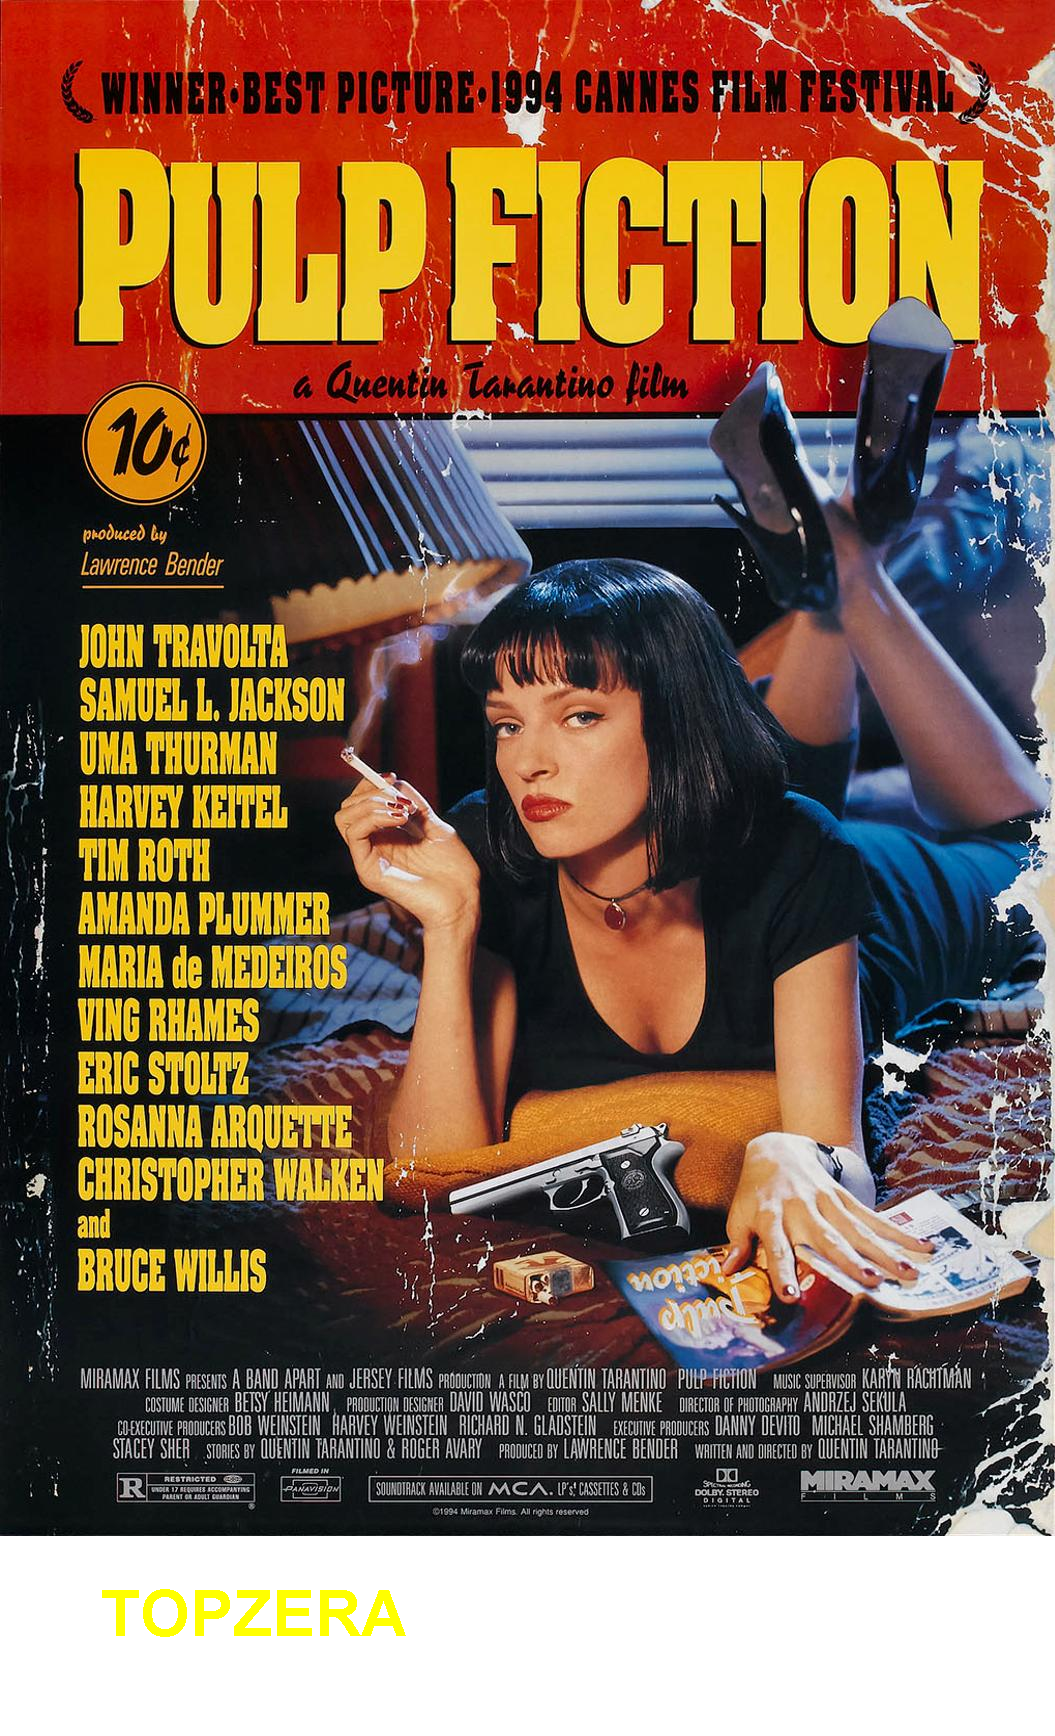
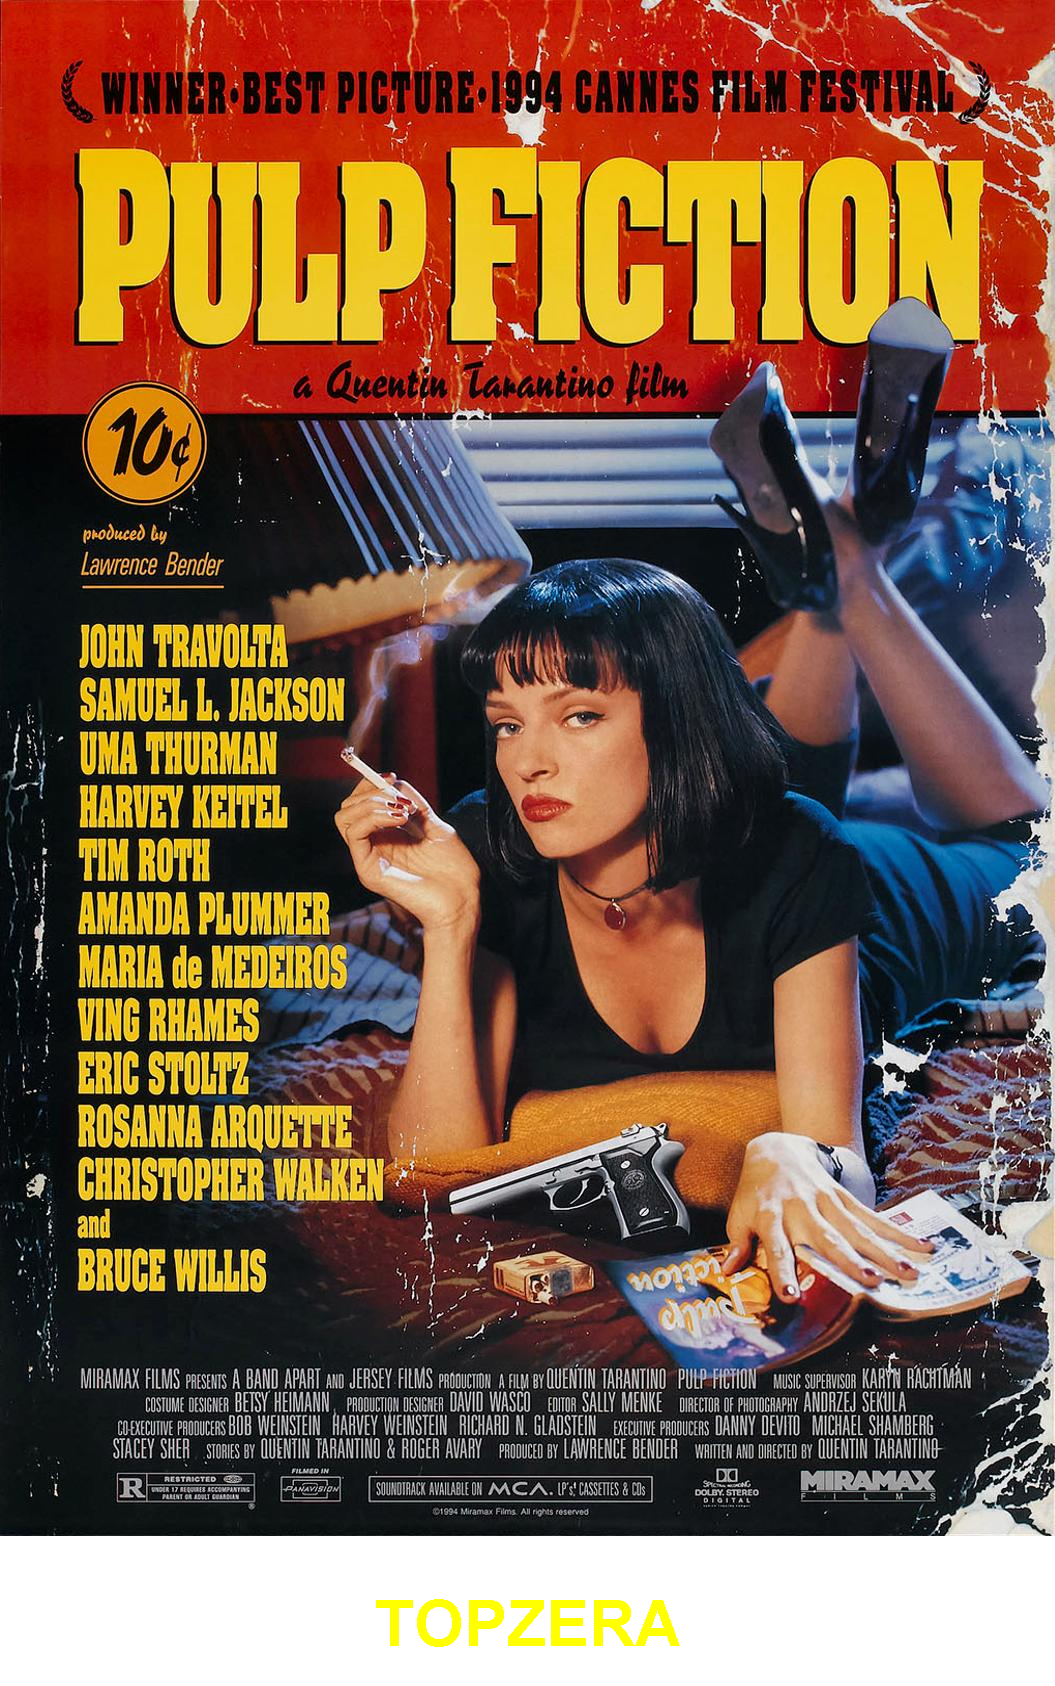
aula 3 refatoramento

diff --git a/src/Main.java b/src/Main.java
@@ -1,30 +1,43 @@
-import java.io.IOException;
 import java.io.InputStream;
-import java.net.URI;
 import java.net.URL;
-import java.net.http.HttpClient;
-import java.net.http.HttpRequest;
-import java.net.http.HttpResponse;
 import java.util.List;
-import java.util.Map;
 
 public class Main {
-    public static void main(String[] args) throws IOException, InterruptedException {
+    public static void main(String[] args) {
 
         //System.out.println("Hello world!");
 
-        // fazer uma conexão HTTP e buscar os top 250 filmes
-        //String url = "https://imdb-api.com/en/API/Top250Movies/k_0ojt0yvm"; //alterar <k_0ojt0yvm> por sua key (imdb)
-        String url = "https://raw.githubusercontent.com/alura-cursos/imersao-java-2-api/main/TopMovies.json";
-        URI endereco = URI.create(url);
-        var client = HttpClient.newHttpClient();
-        var request = HttpRequest.newBuilder(endereco).GET().build();
-        HttpResponse<String> response = client.send(request, HttpResponse.BodyHandlers.ofString());
-        String body = response.body();
+        API api = API.ALURA_IMDB;
 
-        // extrair só os dados que interessam (titulo, poster, classificação)
-        var parser = new JsonParser();
-        List<Map<String, String>> listaDeFilmes = parser.parse(body);
+        String url = api.getUrl();
+        IExtratorDeConteudo extrator = api.getExtrator();
+
+        ClienteHttp http = new ClienteHttp();
+        String json = http.buscaDados(url);
+
+        // exibir e manipular os dados
+        List<Conteudo> conteudos = extrator.extraiConteudos(json);
+
+        // exibir e manipular os dados
+        GeradoraDeFigurinhas geradora = new GeradoraDeFigurinhas();
+
+        try {
+            for (int i = 0; i < 10; i++) {
+
+                Conteudo conteudo = conteudos.get(i);
+
+                InputStream inputStream = new URL(conteudo.urlImagem()).openStream();
+                String nomeArquivo = "saida/" +
+                        conteudo.titulo().replaceAll("[^a-zA-Z0-9]","") +
+                        ".png";
+
+                geradora.cria(inputStream, nomeArquivo);
+
+                System.out.println(conteudo.titulo());
+                System.out.println();
+            }
+        } catch (Exception ignored) {}
+
 
 //        // exibir e manipular os dados
 //        for (Map<String,String> filme : listaDeFilmes) {
@@ -34,31 +47,30 @@ public class Main {
 //            System.out.println();
 //        }
 
-        // exibir e manipular os dados
-        var geradora = new GeradoraDeFigurinhas();
-        for (Map<String,String> filme : listaDeFilmes) {
-
-            String urlImagem = filme.get("image");
-            String titulo = filme.get("title");
-            String rating = filme.get("imDbRating");
-            String image = filme.get("image");
-
-            InputStream inputStream = new URL(urlImagem).openStream();
-            String nomeArquivo = titulo
-                    .trim()
-                    .replace(" ", "")
-                    .replaceAll("[^a-zA-Z0-9]","")
-                    + ".png";
-
-            geradora.cria(inputStream, nomeArquivo);
-
-            System.out.println(titulo);
-            System.out.println(rating);
-            System.out.println(image);
-            System.out.println(nomeArquivo);
-            System.out.println();
-        }
-
+//        // exibir e manipular os dados
+//        GeradoraDeFigurinhas geradora = new GeradoraDeFigurinhas();
+//        for (Map<String,String> filme : listaDeFilmes) {
+//
+//            String urlImagem = filme.get("image");
+//            String titulo = filme.get("title");
+//            String rating = filme.get("imDbRating");
+//            String image = filme.get("image");
+//
+//            InputStream inputStream = new URL(urlImagem).openStream();
+//            String nomeArquivo = titulo
+//                    .trim()
+//                    .replace(" ", "")
+//                    .replaceAll("[^a-zA-Z0-9]","")
+//                    + ".png";
+//
+//            geradora.cria(inputStream, nomeArquivo);
+//
+//            System.out.println(titulo);
+//            System.out.println(rating);
+//            System.out.println(image);
+//            System.out.println(nomeArquivo);
+//            System.out.println();
+//        }
 
     }
 }

diff --git a/src/GeradoraDeFigurinhas.java b/src/GeradoraDeFigurinhas.java
@@ -1,6 +1,4 @@
-import java.awt.Color;
-import java.awt.Font;
-import java.awt.Graphics2D;
+import java.awt.*;
 import java.awt.image.BufferedImage;
 import java.io.File;
 import java.io.IOException;
@@ -23,7 +21,7 @@ public class GeradoraDeFigurinhas {
         // cria nova imagem em memória com transparência e com tamanho novo
         int largura = imagemOriginal.getWidth();
         int altura = imagemOriginal.getHeight();
-        int novaAltura = altura + 200;
+        int novaAltura = altura + 150;
         BufferedImage novaImagem = new BufferedImage(largura, novaAltura, BufferedImage.TRANSLUCENT);
 
         // copiar a imagem original pra novo imagem (em memória)
@@ -36,11 +34,23 @@ public class GeradoraDeFigurinhas {
         graphics.setFont(fonte);
 
         // escrever uma frase na nova imagem
-        graphics.drawString("TOPZERA", 100, novaAltura - 100);
+        //graphics.drawString("TOPZERA", 100, novaAltura - 100);
+        centralizarTexto("TOPZERA", largura, novaAltura, graphics);
 
         // escrever a nova imagem em um arquivo
-        ImageIO.write(novaImagem, "png", new File("saida/" + nomeArquivo));
+        ImageIO.write(novaImagem, "png", new File(nomeArquivo));
 
+    }
+
+    private void centralizarTexto(String s, int w, int h, Graphics2D g) {
+
+        FontMetrics fm = g.getFontMetrics();
+        int x = (w - fm.stringWidth(s)) / 2;
+        int y = (fm.getAscent() + (h - (fm.getAscent() + fm.getDescent())) / 2);
+
+        y = h - 40;
+
+        g.drawString(s, x, y);
     }
 
 }

diff --git a/src/API.java b/src/API.java
@@ -1,0 +1,27 @@
+public enum API {
+
+    IMDB_TOP_MOVIES("https://imdb-api.com/en/API/Top250Movies/k_x3pev8lm", //alterar <k_0ojt0yvm> por sua key (imdb)
+            new ExtratorDeConteudoDoIMDB()),
+    IMDB_TOP_SERIES("https://imdb-api.com/en/API/Top250TVs/k_x3pev8lm", //alterar <k_0ojt0yvm> por sua key (imdb)
+            new ExtratorDeConteudoDoIMDB()),
+    NASA("https://api.nasa.gov/planetary/apod?api_key=DEMO_KEY&start_date=2022-06-12&end_date=2022-06-14", //alterar <DEMO_KEY> por sua key (nasa)
+            new ExtratorDeConteudoDaNasa()),
+    ALURA_IMDB("https://raw.githubusercontent.com/alura-cursos/imersao-java-2-api/main/TopMovies.json",
+            new ExtratorDeConteudoDoIMDB());
+
+    private String url;
+    private IExtratorDeConteudo extrator;
+
+    API(String url, IExtratorDeConteudo extrator) {
+        this.url = url;
+        this.extrator = extrator;
+    }
+
+    public String getUrl() {
+        return url;
+    }
+
+    public IExtratorDeConteudo getExtrator() {
+        return extrator;
+    }
+}

diff --git a/src/ClienteHttp.java b/src/ClienteHttp.java
@@ -1,0 +1,25 @@
+import java.io.IOException;
+import java.net.URI;
+import java.net.http.HttpClient;
+import java.net.http.HttpRequest;
+import java.net.http.HttpResponse;
+
+public class ClienteHttp {
+
+    public String buscaDados(String url) {
+
+        try {
+
+            URI endereco = URI.create(url);
+            HttpClient client = HttpClient.newHttpClient();
+            HttpRequest request = HttpRequest.newBuilder(endereco).GET().build();
+            HttpResponse<String> response = client.send(request, HttpResponse.BodyHandlers.ofString());
+            String body = response.body();
+            return body;
+
+        } catch (IOException | InterruptedException ex) {
+            throw new ClienteHttpException("Erro ao consultar a URL. :(");
+        }
+
+    }
+}

diff --git a/src/ExtratorDeConteudoDoIMDB.java b/src/ExtratorDeConteudoDoIMDB.java
@@ -1,0 +1,18 @@
+import java.util.List;
+import java.util.Map;
+
+public class ExtratorDeConteudoDoIMDB implements IExtratorDeConteudo {
+
+    public List<Conteudo> extraiConteudos(String json) {
+        // extrair só os dados que interessam (titulo, poster, classificação)
+        var parser = new JsonParser();
+        List<Map<String, String>> listaDeAtributos = parser.parse(json);
+
+        return listaDeAtributos.stream()
+                .map(atributos -> new Conteudo(
+                        atributos.get("title"),
+                        atributos.get("image").replaceAll("(@+)(.*).jpg$", "$1.jpg")))
+                .toList();
+
+    }
+}

diff --git a/src/ExtratorDeConteudoDaNasa.java b/src/ExtratorDeConteudoDaNasa.java
@@ -1,0 +1,19 @@
+import java.util.List;
+import java.util.Map;
+
+public class ExtratorDeConteudoDaNasa implements IExtratorDeConteudo {
+
+    public List<Conteudo> extraiConteudos(String json) {
+
+        // extrair só os dados que interessam (titulo, poster, classificação)
+        var parser = new JsonParser();
+        List<Map<String, String>> listaDeAtributos = parser.parse(json);
+
+        return listaDeAtributos.stream()
+                .map(atributos -> new Conteudo(
+                        atributos.get("title"),
+                        atributos.get("url")))
+                .toList();
+
+    }
+}

diff --git a/src/Conteudo.java b/src/Conteudo.java
@@ -1,0 +1,18 @@
+public record Conteudo(
+        String titulo,
+        String urlImagem
+) {}
+
+//public class Conteudo {
+//    private String titulo,
+//    private String urlImagem
+//
+//    public getTitulo() {
+//        return titulo;
+//    }
+//
+//    public getUrlImagem() {
+//        return urlImagem;
+//    }
+//}
+

diff --git a/src/ClienteHttpException.java b/src/ClienteHttpException.java
@@ -1,0 +1,6 @@
+public class ClienteHttpException extends RuntimeException {
+
+    public ClienteHttpException(String message) {
+        super(message);
+    }
+}

diff --git a/src/IExtratorDeConteudo.java b/src/IExtratorDeConteudo.java
@@ -1,0 +1,6 @@
+import java.util.List;
+
+public interface IExtratorDeConteudo {
+
+    List<Conteudo> extraiConteudos(String json);
+}

diff --git a/README.md b/README.md
@@ -1,7 +1,7 @@
 # estudo_alura_imersao_java_2023-03
 Estudo Alura Imersão Java 2023-03
 
-# AULA 2
+# AULA 3
 # Imersão Java
 Este repositório conterá o código das aulas da segunda edição da Imersão Java da Alura.
 
